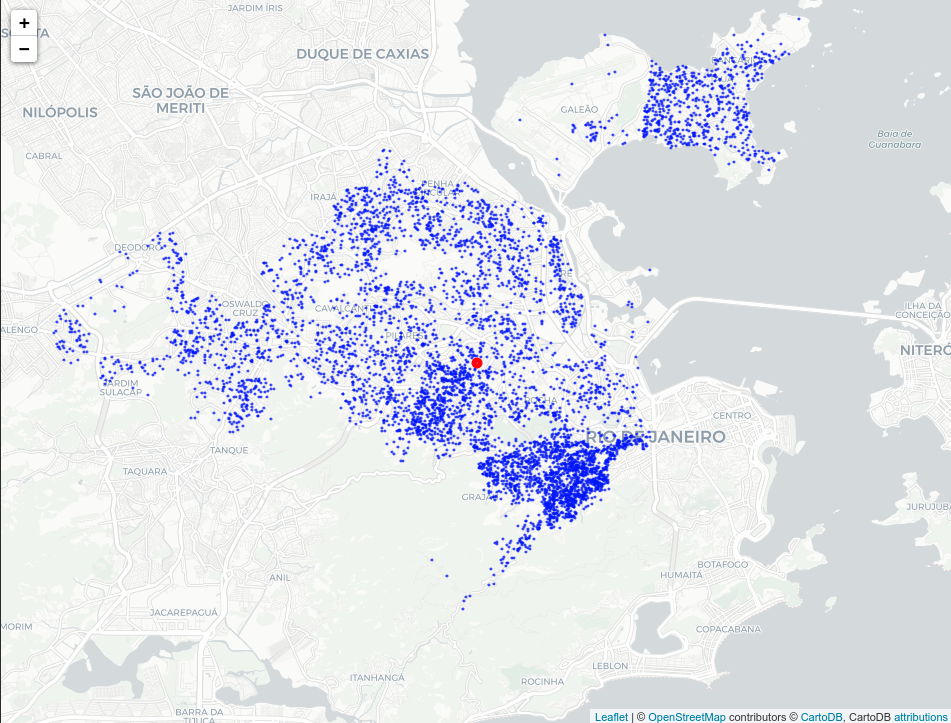
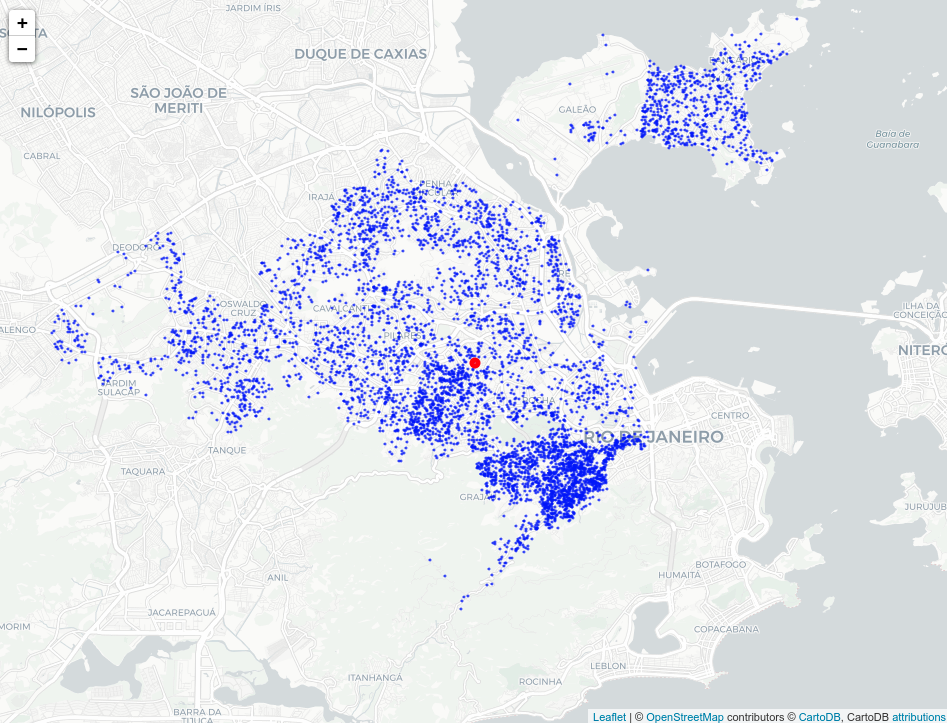
fix image sizes

diff --git a/loggibud/cvrp/plot_instance.py b/loggibud/cvrp/plot_instance.py
@@ -1,9 +1,11 @@
 import logging
 from argparse import ArgumentParser
 
+import numpy as np
 import folium
 
 from .types import CVRPInstance, CVRPSolution
+from ..shared.types import DeliveryProblemInstance
 
 
 logger = logging.getLogger(__name__)
@@ -33,14 +35,42 @@ def plot_cvrp_instance(instance: CVRPInstance):
     m.save("map.html")
 
 
+def plot_delivery_instance(instance: DeliveryProblemInstance):
+
+    points = [delivery.point for delivery in instance.deliveries]
+    center_lat = np.mean([p.lat for p in points])
+    center_lng = np.mean([p.lng for p in points])
+
+    # create a map
+    m = folium.Map(
+        location=(center_lat, center_lng),
+        zoom_start=12,
+        tiles="cartodbpositron",
+    )
+
+    for point in points:
+        folium.CircleMarker(
+            [point.lat, point.lng], color="blue", radius=1, weight=1
+        ).add_to(m)
+
+    m.save("map.html")
+
+
 if __name__ == "__main__":
     parser = ArgumentParser()
 
-    parser.add_argument("--instance", type=str, required=True)
+    parser.add_argument("--cvrp", type=str)
+    parser.add_argument("--delivery", type=str)
+
 
     args = parser.parse_args()
 
     # Load instance and heuristic params.
-    instance = CVRPInstance.from_file(args.instance)
 
-    plot_cvrp_instance(instance)
+    if args.cvrp:
+        instance = CVRPInstance.from_file(args.cvrp)
+        plot_cvrp_instance(instance)
+
+    elif args.delivery:
+        instance = DeliveryProblemInstance.from_file(args.delivery)
+        plot_delivery_instance(instance)

diff --git a/loggibud/shared/types.py b/loggibud/shared/types.py
@@ -1,7 +1,25 @@
-from dataclasses import dataclass
-from typing import List
+import json
+from dataclasses import dataclass, asdict
+from pathlib import Path
+from typing import List, Union
 
+from dacite import from_dict
 from shapely.geometry import Point as ShapelyPoint
+
+
+class JSONDataclassMixin:
+    @classmethod
+    def from_file(cls, path: Union[Path, str]) -> "JSONDataclassMixin":
+        with open(path) as f:
+            data = json.load(f)
+
+        return from_dict(cls, data)
+
+    def to_file(self, path: Union[Path, str]) -> None:
+        with open(path, "w") as f:
+            json.dump(asdict(self), f)
+
+        return
 
 
 @dataclass(unsafe_hash=True)
@@ -25,6 +43,8 @@ class Delivery:
 
 
 @dataclass
-class DeliveryProblemInstance:
+class DeliveryProblemInstance(JSONDataclassMixin):
     name: str
     deliveries: List[Delivery]
+    vehicle_capacity: int
+    max_hubs: int

diff --git a/loggibud/cvrp/types.py b/loggibud/cvrp/types.py
@@ -5,22 +5,10 @@ from dataclasses import dataclass, asdict
 
 from dacite import from_dict
 
-from ..shared.types import Point, Delivery
+from ..shared.types import Point, Delivery, JSONDataclassMixin
 
 
-class JSONDataclassMixin:
-    @classmethod
-    def from_file(cls, path: Union[Path, str]) -> "JSONDataclassMixin":
-        with open(path) as f:
-            data = json.load(f)
 
-        return from_dict(cls, data)
-
-    def to_file(self, path: Union[Path, str]) -> None:
-        with open(path, "w") as f:
-            json.dump(asdict(self), f)
-
-        return
 
 
 @dataclass

diff --git a/loggibud/instance_generation/generators.py b/loggibud/instance_generation/generators.py
@@ -141,6 +141,8 @@ def generate_census_instances(
         DeliveryProblemInstance(
             name=f"{config.name}-{i}",
             deliveries=np.random.choice(deliveries, size=size).tolist(),
+            vehicle_capacity=config.vehicle_capacity,
+            max_hubs=config.max_hubs,
         )
         for i, size in enumerate(sizes)
     ]

diff --git a/README.md b/README.md
@@ -1,16 +1,25 @@
-Loggi BUD - Benchmark for Urban Deliveries
+Loggi Benchmark for Urban Deliveries (BUD)
 ==================
 
-# Overview
-
-The Loggi Benchmark for Urban Deliveries contains datasets and benchmark scripts for large-scale problems in some of Brazil's largest cities. The data is from public sources that have a high correlation with actual last-mile deliveries performed by Loggi. Similar to several benchmarks, we publish a leaderboard of best-known solutions.
+The Loggi Benchmark for Urban Deliveries contains datasets and benchmark scripts for large-scale problems in some of Brazil's largest cities. The data is from public sources that have a high correlation with actual last-mile deliveries performed by Loggi.
 
 # Dataset
 
-<p float="left">
-  <img src="./figures/cvrp_example_1.png" width="100" />
-  <img src="./figures/cvrp_example_2.png" width="100" />
-  <img src="./figures/cvrp_example_3.png" width="100" />
+The dataset illustrates the challange of a large delivery company in the last-mile step of the supply chain. On Rio de Janeiro metropolitan area alone, every day tens of thousands of parcels and mail are delivered. Deliveries in the city are very unevenly distributed. Rich and densily populated areas drive most of the deliveries. We also do consider the geography of the city and real street travel distances, as the reality of complex cities is not well modelled by euclidian distances.
+
+On our first version, We provide 90 train instances and 30 evaluation instances for the end-to-end problem on Rio de Janeiro. The instance sizes range from 24k to 32k deliveries. The challenge is to position consolidation hubs across the city and split demands into delivery vehicles. 
+
+<p float="center">
+  <img src="./figures/e2e_example.png" width="820" />
+</p>
+
+While our goal is to solve the problem on an end-to-end manner, we also provide a baseline distribution of demands into 6 hubs obtained using a p-hub assignment. This leads to 540 train instances and 180 evaluation instances on the CVRP challenge.
+
+<p float="center">
+  <img src="./figures/cvrp_example_1.png" width="400" />
+  <img src="./figures/cvrp_example_2.png" width="400" />
+  <img src="./figures/cvrp_example_3.png" width="400" />
+  <img src="./figures/cvrp_example_4.png" width="400" />
 </p>
 
 
@@ -18,36 +27,23 @@ The Loggi Benchmark for Urban Deliveries contains datasets and benchmark scripts
 
 ### Task 1 - Last-Mile Capacitated Vehicle Routing Problem
 
-This first task is a classic Capacitated Vehicle Routing Problem (CVRP) with minimizing travel distance as objetive. Although solving the CVRP with complete information is often impractical, these solutions are good targets for Task 2.
-
-| Submission | Date       | Submitted by             | Solution                            | Distance (km)       |
-| ---------- | -----------| ------------------------ | ----------------------------------- | ------------------- |
-| ortools1   | 2020/11/28 | Loggi - Network design   | OR-tools VRP \[[code](.)\]          | 10000.000           |
-| kmortools1 | 2020/11/28 | Loggi - Network design   | KMeans + OR-tools VRP \[[code](.)\] | 10000.000           |
-
+This first task is a classic Capacitated Vehicle Routing Problem (CVRP) with minimizing travel distance as objetive. Although solving such large CVRPs with complete information is often impractical, these solutions are good targets for Task 2.
 
 ### Task 2 - Last-Mile Incremental Capacitated Vehicle Routing Problem
-
-**WIP - COMING SOON**
 
 This is considered a particular case of Stochastic and Dynamic Capacitated Vehicle Routing Problems (SD-CVRP). The objetive is to sort deliveries into routes one by one as they arrive. You may use only historical information and the previously routed deliveries from the same instance. No recombination is allowed after assignment.
 
 From an operations point of view, this solution class is a lot more powerful as it doesn't require full information before start routing. Instead, hub operators can route deliveries as they arrive.
 
-
 ### Task 3 - End-to-end last-mile problem
 
-**WIP - COMING SOON**
-
-This is an extension of the task 1.2, but without fixed dispatch locations. Therefore, locations and allocation of requests to dispatch locations is considered part of the solution, but should be the same accross multiple instances. This can be considered an end-to-end optimization of last-mile delivery operations. In previous tasks, the assignment of demands to hubs is done using an exact solution of a p-hub problem.
-
+This is an extension of the task 1.2, but without fixed dispatch locations. Therefore, locations and allocation of requests to dispatch locations is considered part of the solution, but should be the same accross multiple instances. This can be considered an end-to-end optimization of last-mile delivery operations. 
 
 # Motivation
 
 This benchmark is an effort to make new operations research solutions closer to real-world applications faced by delivery companies. We believe this work can help both practitioners and academics to reduce the gap between state-of-the-art and practice.
 
-We identify that several promising solutions in academic literature have evaluation or reproducibility issues. Several papers only include experiments for toy problems that do not resemble real applications. Another issue is very few authors in this field publish code related to the publications, which makes their work hard to reproduce.
-
+We identify that several promising solutions in academic literature have evaluation issues. Several papers only include experiments for toy problems that do not resemble real applications. We also expected real-world instances to help researchers to come up with new ideas for solving large routing and location problems.
 
 ### Why a new dataset
 
@@ -103,3 +99,9 @@ python -m loggibud.cvrp.eval \
 	--instance tests/results/cvrp-instances/train/rj-0-cvrp-0.json \
 	--solution result.json
 ```
+
+
+| Submission | Date       | Submitted by             | Solution                            | Distance (km)       |
+| ---------- | -----------| ------------------------ | ----------------------------------- | ------------------- |
+| ortools1   | 2020/11/28 | Loggi - Network design   | OR-tools VRP \[[code](.)\]          | 10000.000           |
+| kmortools1 | 2020/11/28 | Loggi - Network design   | KMeans + OR-tools VRP \[[code](.)\] | 10000.000           |
